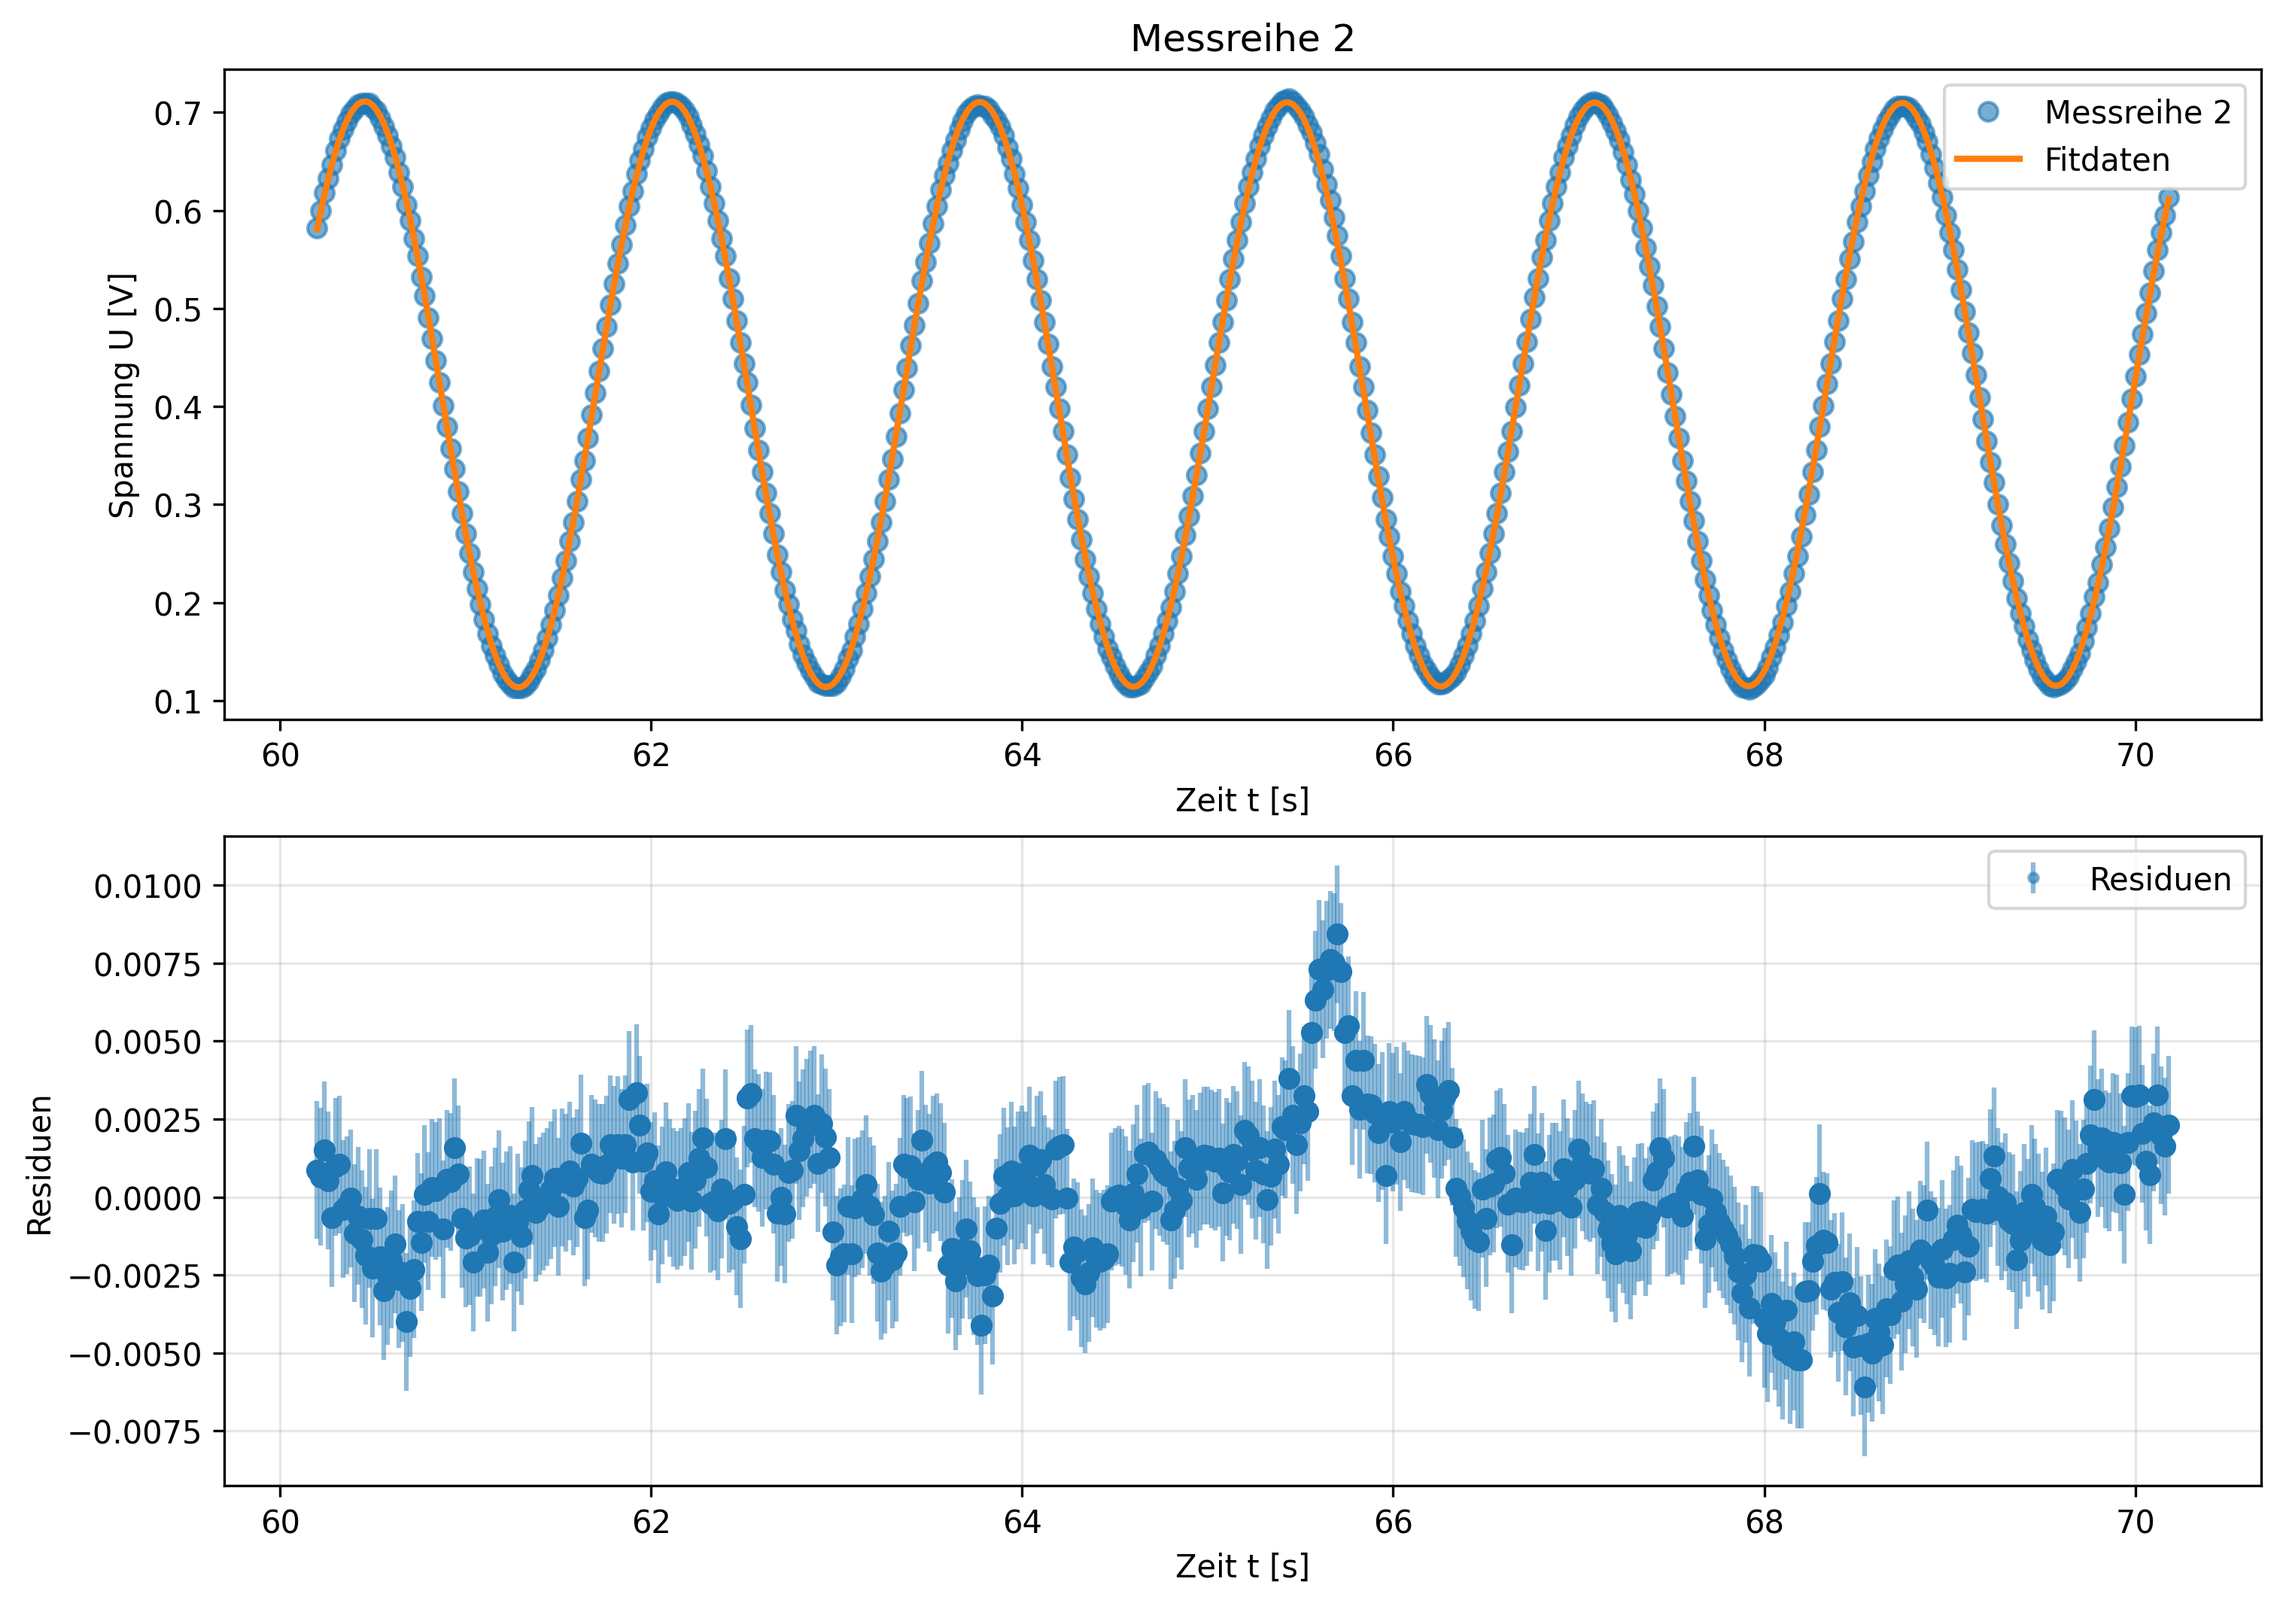
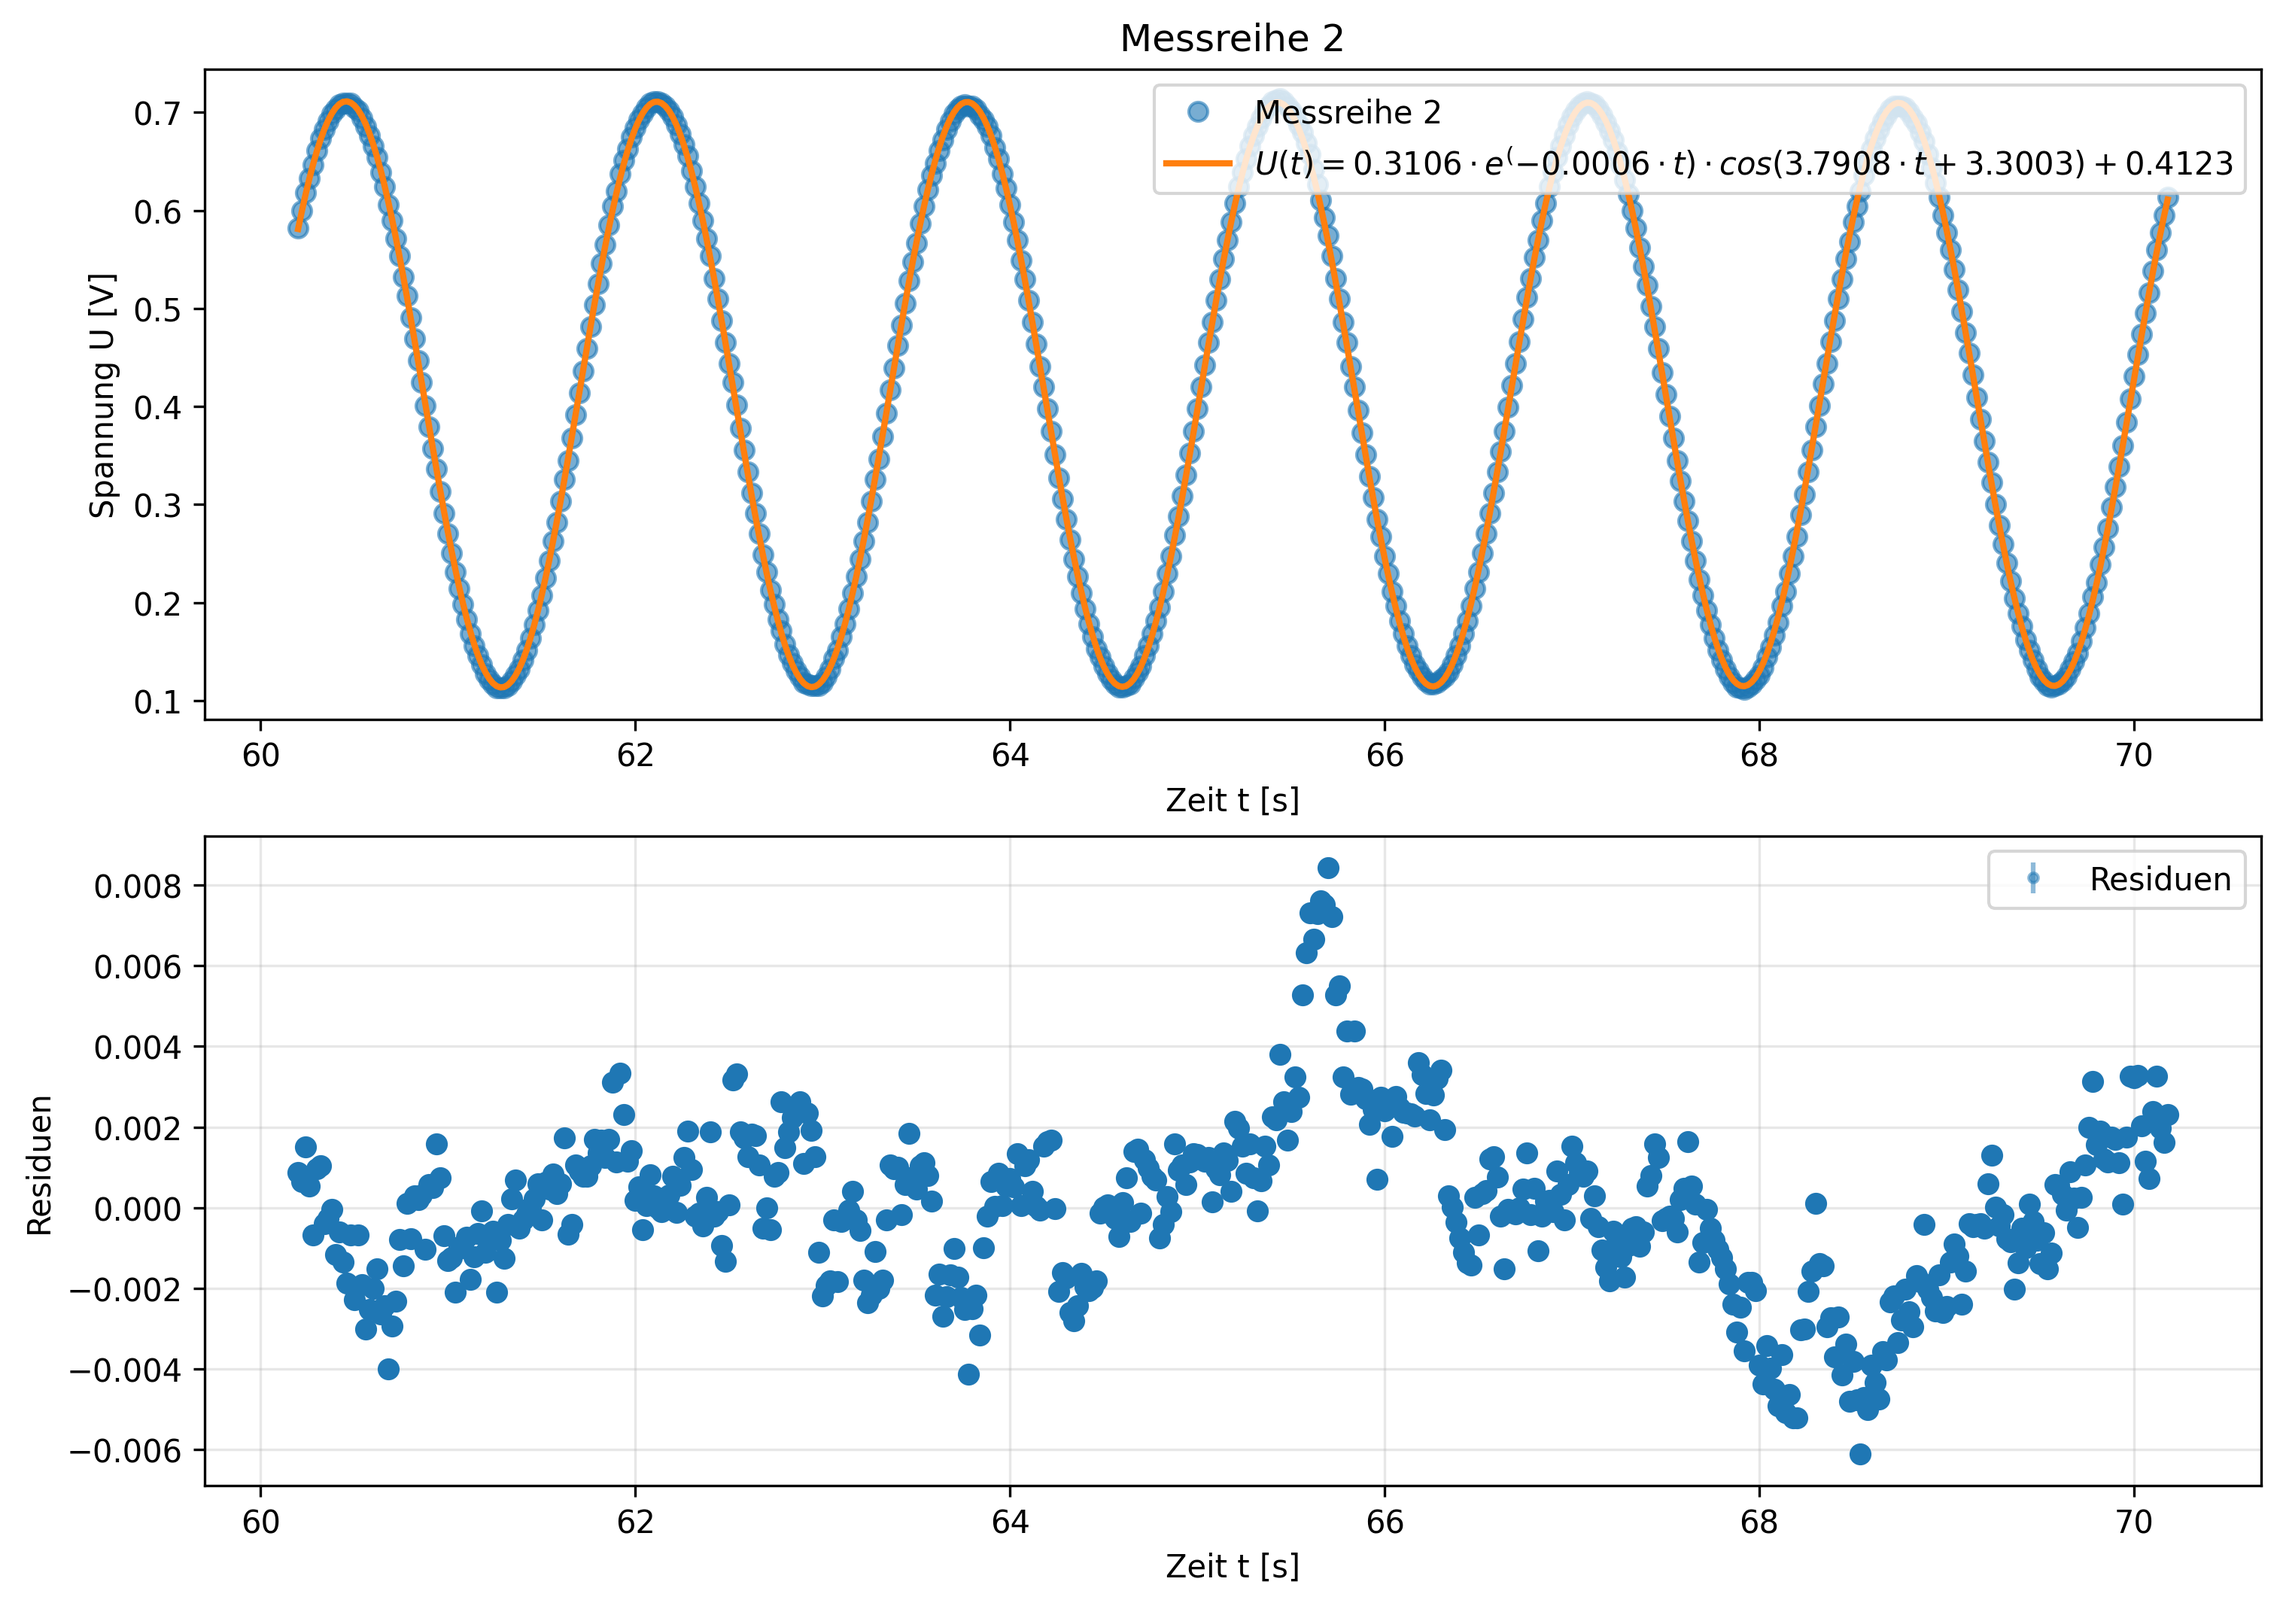
5 rauschmessungen

diff --git a/V2_Mechanik/Valentin/auswertung_valentin.py b/V2_Mechanik/Valentin/auswertung_valentin.py
@@ -7,17 +7,20 @@ from praktikum.cassy import CassyDaten
 from praktikum import analyse
 from praktikum import literaturwerte as lw
 
-DATEN_rauschen = r'V2_Mechanik/Daten/Pendel_rauschen_vorher_4.labx'
+DATEN_rauschen_1 = r'V2_Mechanik/Daten/Pendel_rauschen_vorher.labx'
+DATEN_rauschen_2 = r'V2_Mechanik/Daten/Pendel_rauschen_vorher_2.labx'
+DATEN_rauschen_3 = r'V2_Mechanik/Daten/Pendel_rauschen_vorher_3.labx'
+DATEN_rauschen_4 = r'V2_Mechanik/Daten/Pendel_rauschen_vorher_4.labx'
+DATEN_rauschen_5 = r'V2_Mechanik/Daten/Pendel_rauschen_vorher_5.labx'
+Rauschmessungen = [DATEN_rauschen_1, DATEN_rauschen_2, DATEN_rauschen_3, DATEN_rauschen_4, DATEN_rauschen_5]
+
 DATEN_Messreihen = r'V2_Mechanik/Daten/Pendel_messung.labx'
 
 OUTPUT = Path(r'V2_Mechanik/Valentin/OutputDatein')
 OUTPUT.mkdir(exist_ok=True)
 
-cassy_daten_rauschen = CassyDaten(DATEN_rauschen)
-messung_rauschen     = cassy_daten_rauschen.messung(1)
-
-print(CassyDaten(DATEN_Messreihen).info())
-print(cassy_daten_rauschen.info())
+cassy_daten_rauschen_1 = CassyDaten(DATEN_rauschen_1)
+messung_rauschen     = cassy_daten_rauschen_1.messung(1)
 
 def auswertung_messreihe(DATEN, i, rausch_sigma=None, fit_trim=[0,-1], plot_intervall=[3000,4000]):
 
@@ -75,7 +78,7 @@ def auswertung_messreihe(DATEN, i, rausch_sigma=None, fit_trim=[0,-1], plot_inte
         f(t, *popt)[plot_intervall[0]:plot_intervall[1]],
         lw=2,
         color='tab:orange',
-        label='Fitdaten'
+        label=f'$U(t)={A_fit:.4f}\cdot e^(-{B_fit:.4f}\cdot t)\cdot cos({2 * np.pi / T_fit:.4f}\cdot t + {phi_fit:.4f}) + {y_0_fit:.4f}$'
         )
     ax.set_xlabel('Zeit t [s]')
     ax.set_ylabel('Spannung U [V]')
@@ -130,8 +133,17 @@ def rauschmessung(DATEN, dateiname, trim_vorne, trim_hinten, bins=25):
     return mean, std
 
 trim_vorne = 10
-mittel, sigma = rauschmessung(DATEN_rauschen, 'Rauschmessung', trim_vorne, -1)
-print(f'U = ({mittel:.4f}+-{sigma:.4f})V')
+
+rausch_mittel = []
+rausch_sigmas = []
+for DATEN in Rauschmessungen:
+    mittel, sigma = rauschmessung(DATEN, 'Rauschmessung', trim_vorne, -1)
+    rausch_mittel.append(mittel)
+    rausch_sigmas.append(sigma)
+
+mittel_ges = np.mean(rausch_mittel)
+sigma_ges  = np.std(rausch_sigmas) / np.sqrt(len(rausch_sigmas))
+print(f'U = ({mittel_ges:.4f}+-{sigma_ges:.4f})V')
 
 l1  = un.ufloat(61.5*10, np.sqrt((1 / np.sqrt(12))**2 + (0.7 / np.sqrt(3))**2))
 l2  = un.ufloat(2.715*10, np.sqrt((0.05 / np.sqrt(12))**2 + (0.05 / np.sqrt(3))**2))
@@ -148,7 +160,7 @@ g_vals = []
 g_errs = []
 for i in range(1, 11):
 
-    fit_daten = auswertung_messreihe(DATEN_Messreihen, i, plot_intervall=[3000,3500], fit_trim=[trim_vorne,-1], rausch_sigma=sigma)
+    fit_daten = auswertung_messreihe(DATEN_Messreihen, i, plot_intervall=[3000,3500], fit_trim=[trim_vorne,-1], rausch_sigma=sigma_ges)
 
     w = un.ufloat(fit_daten[0], fit_daten[2])
     g = w**2 * (l_p / 1000) * (1 + (1/8) * ((d_p/1000) / (l_p/1000))**2)
